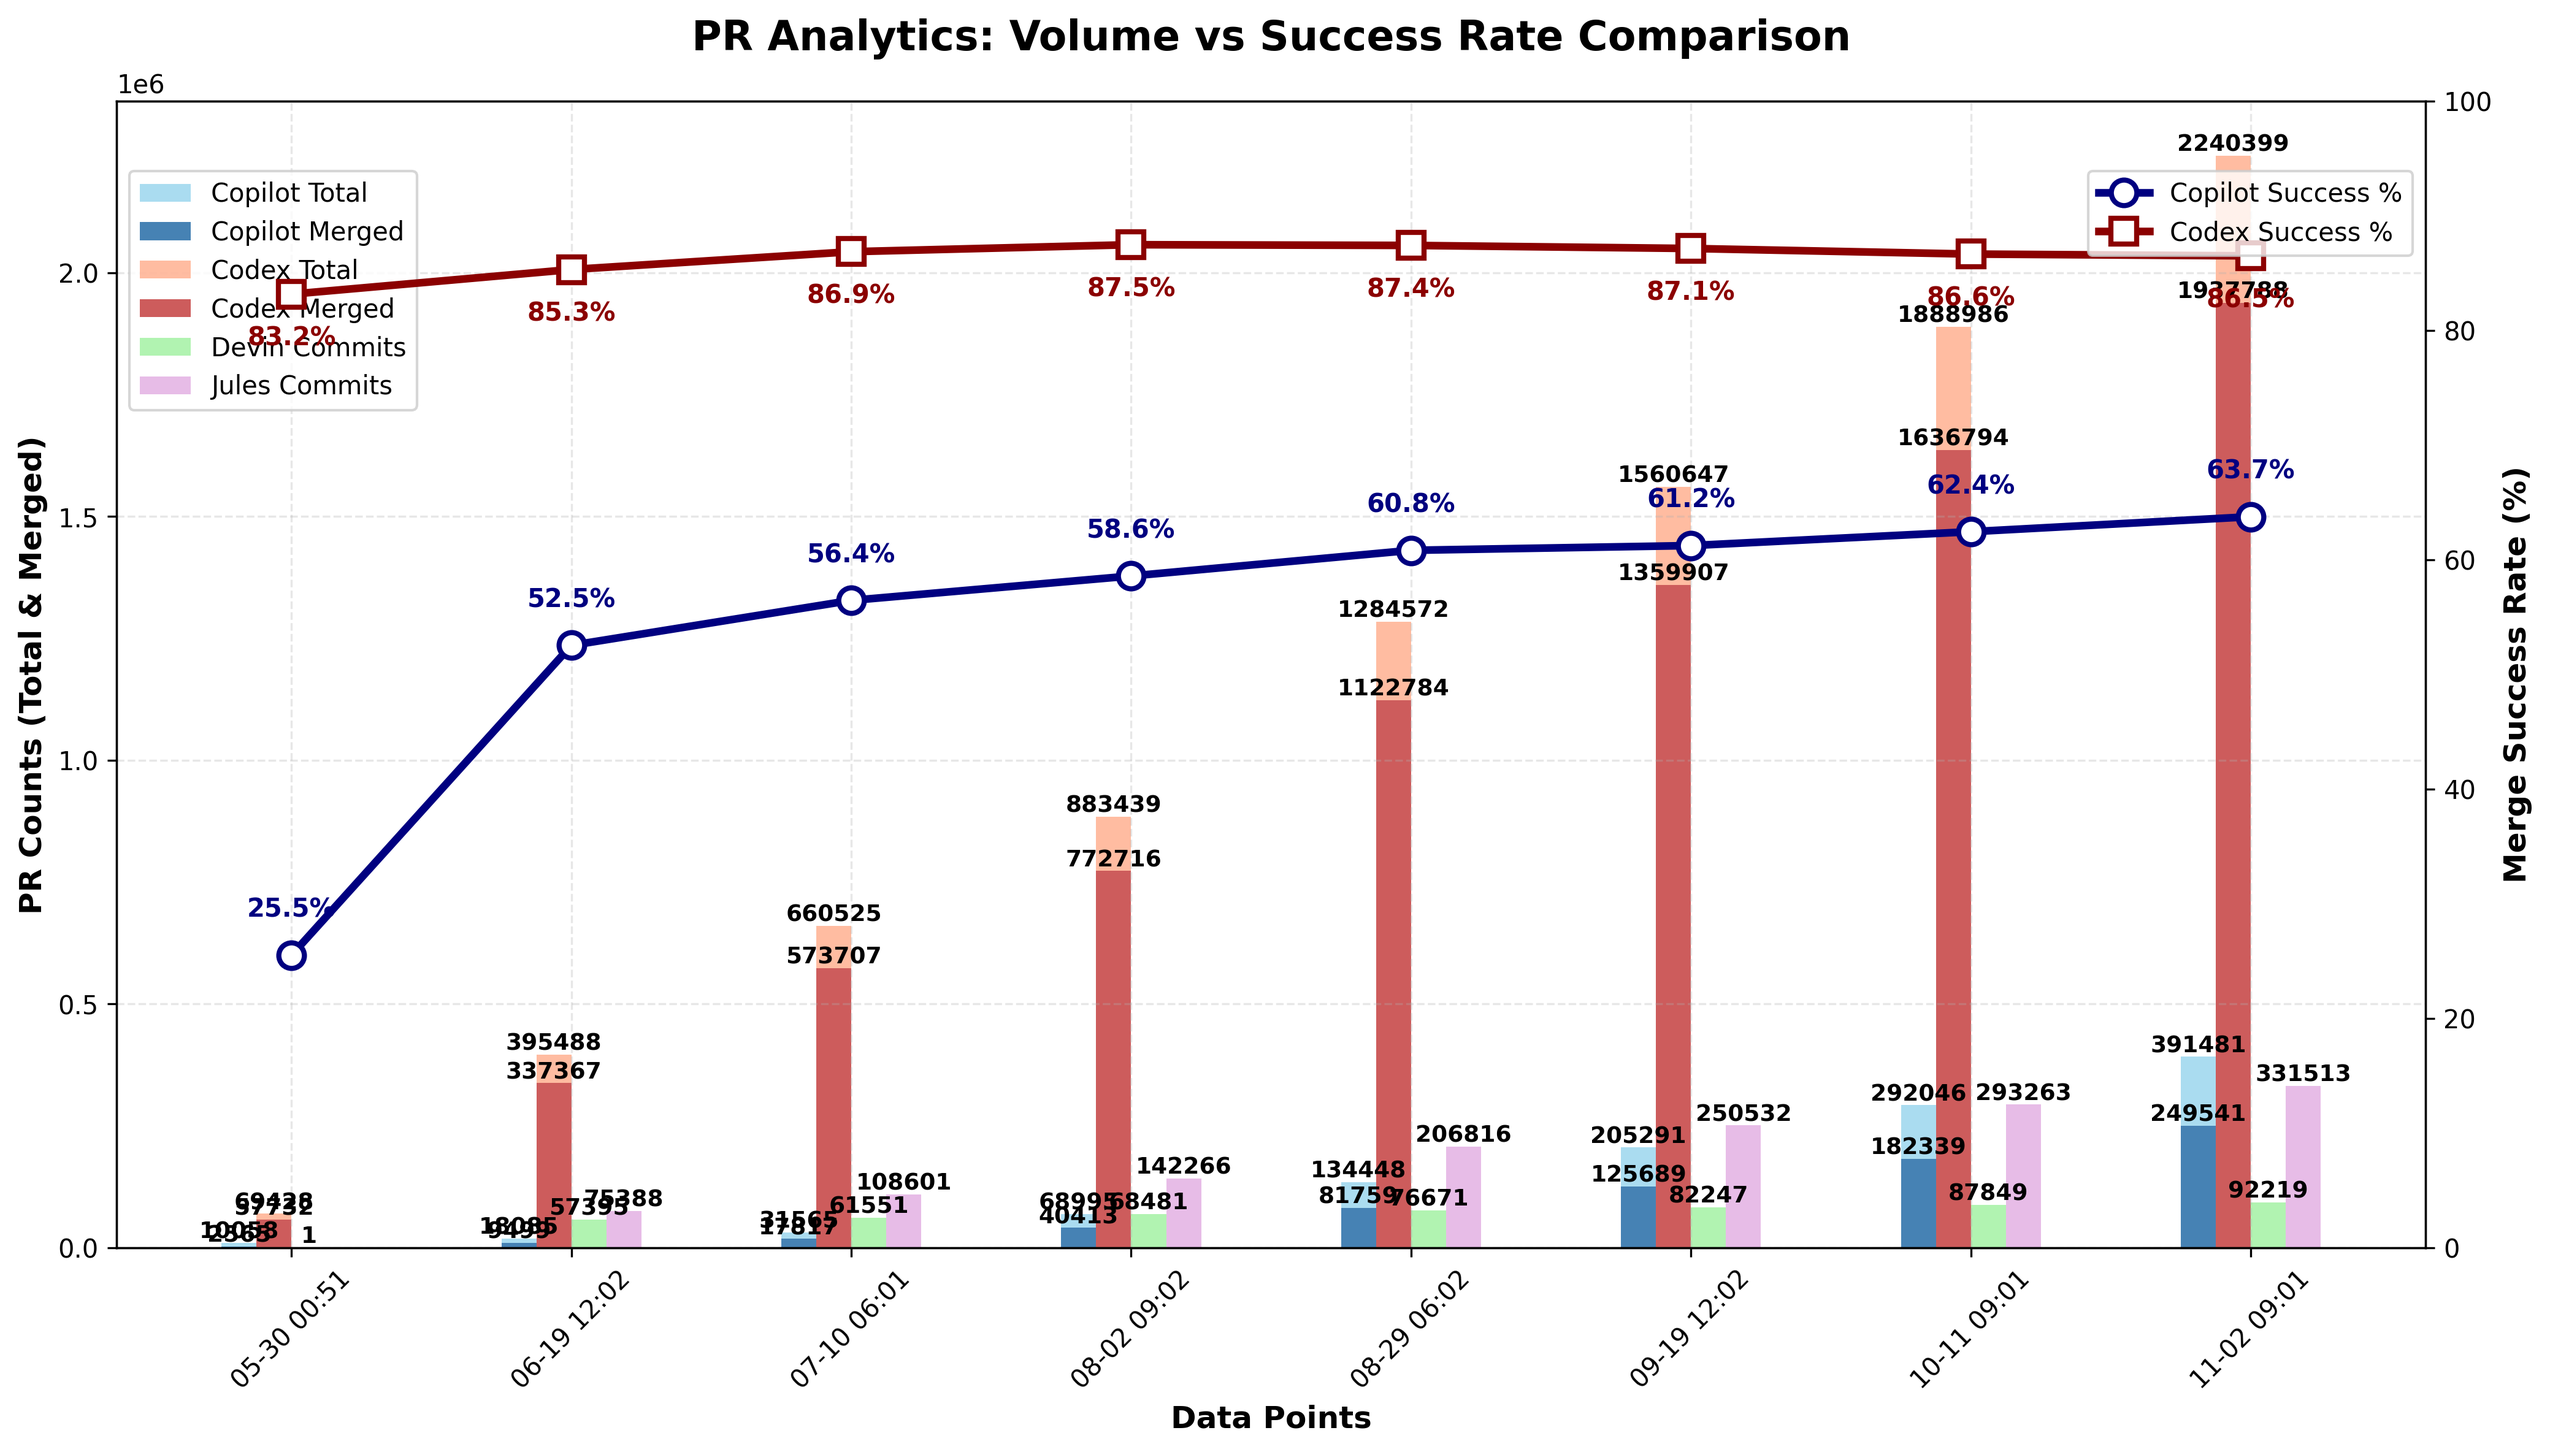
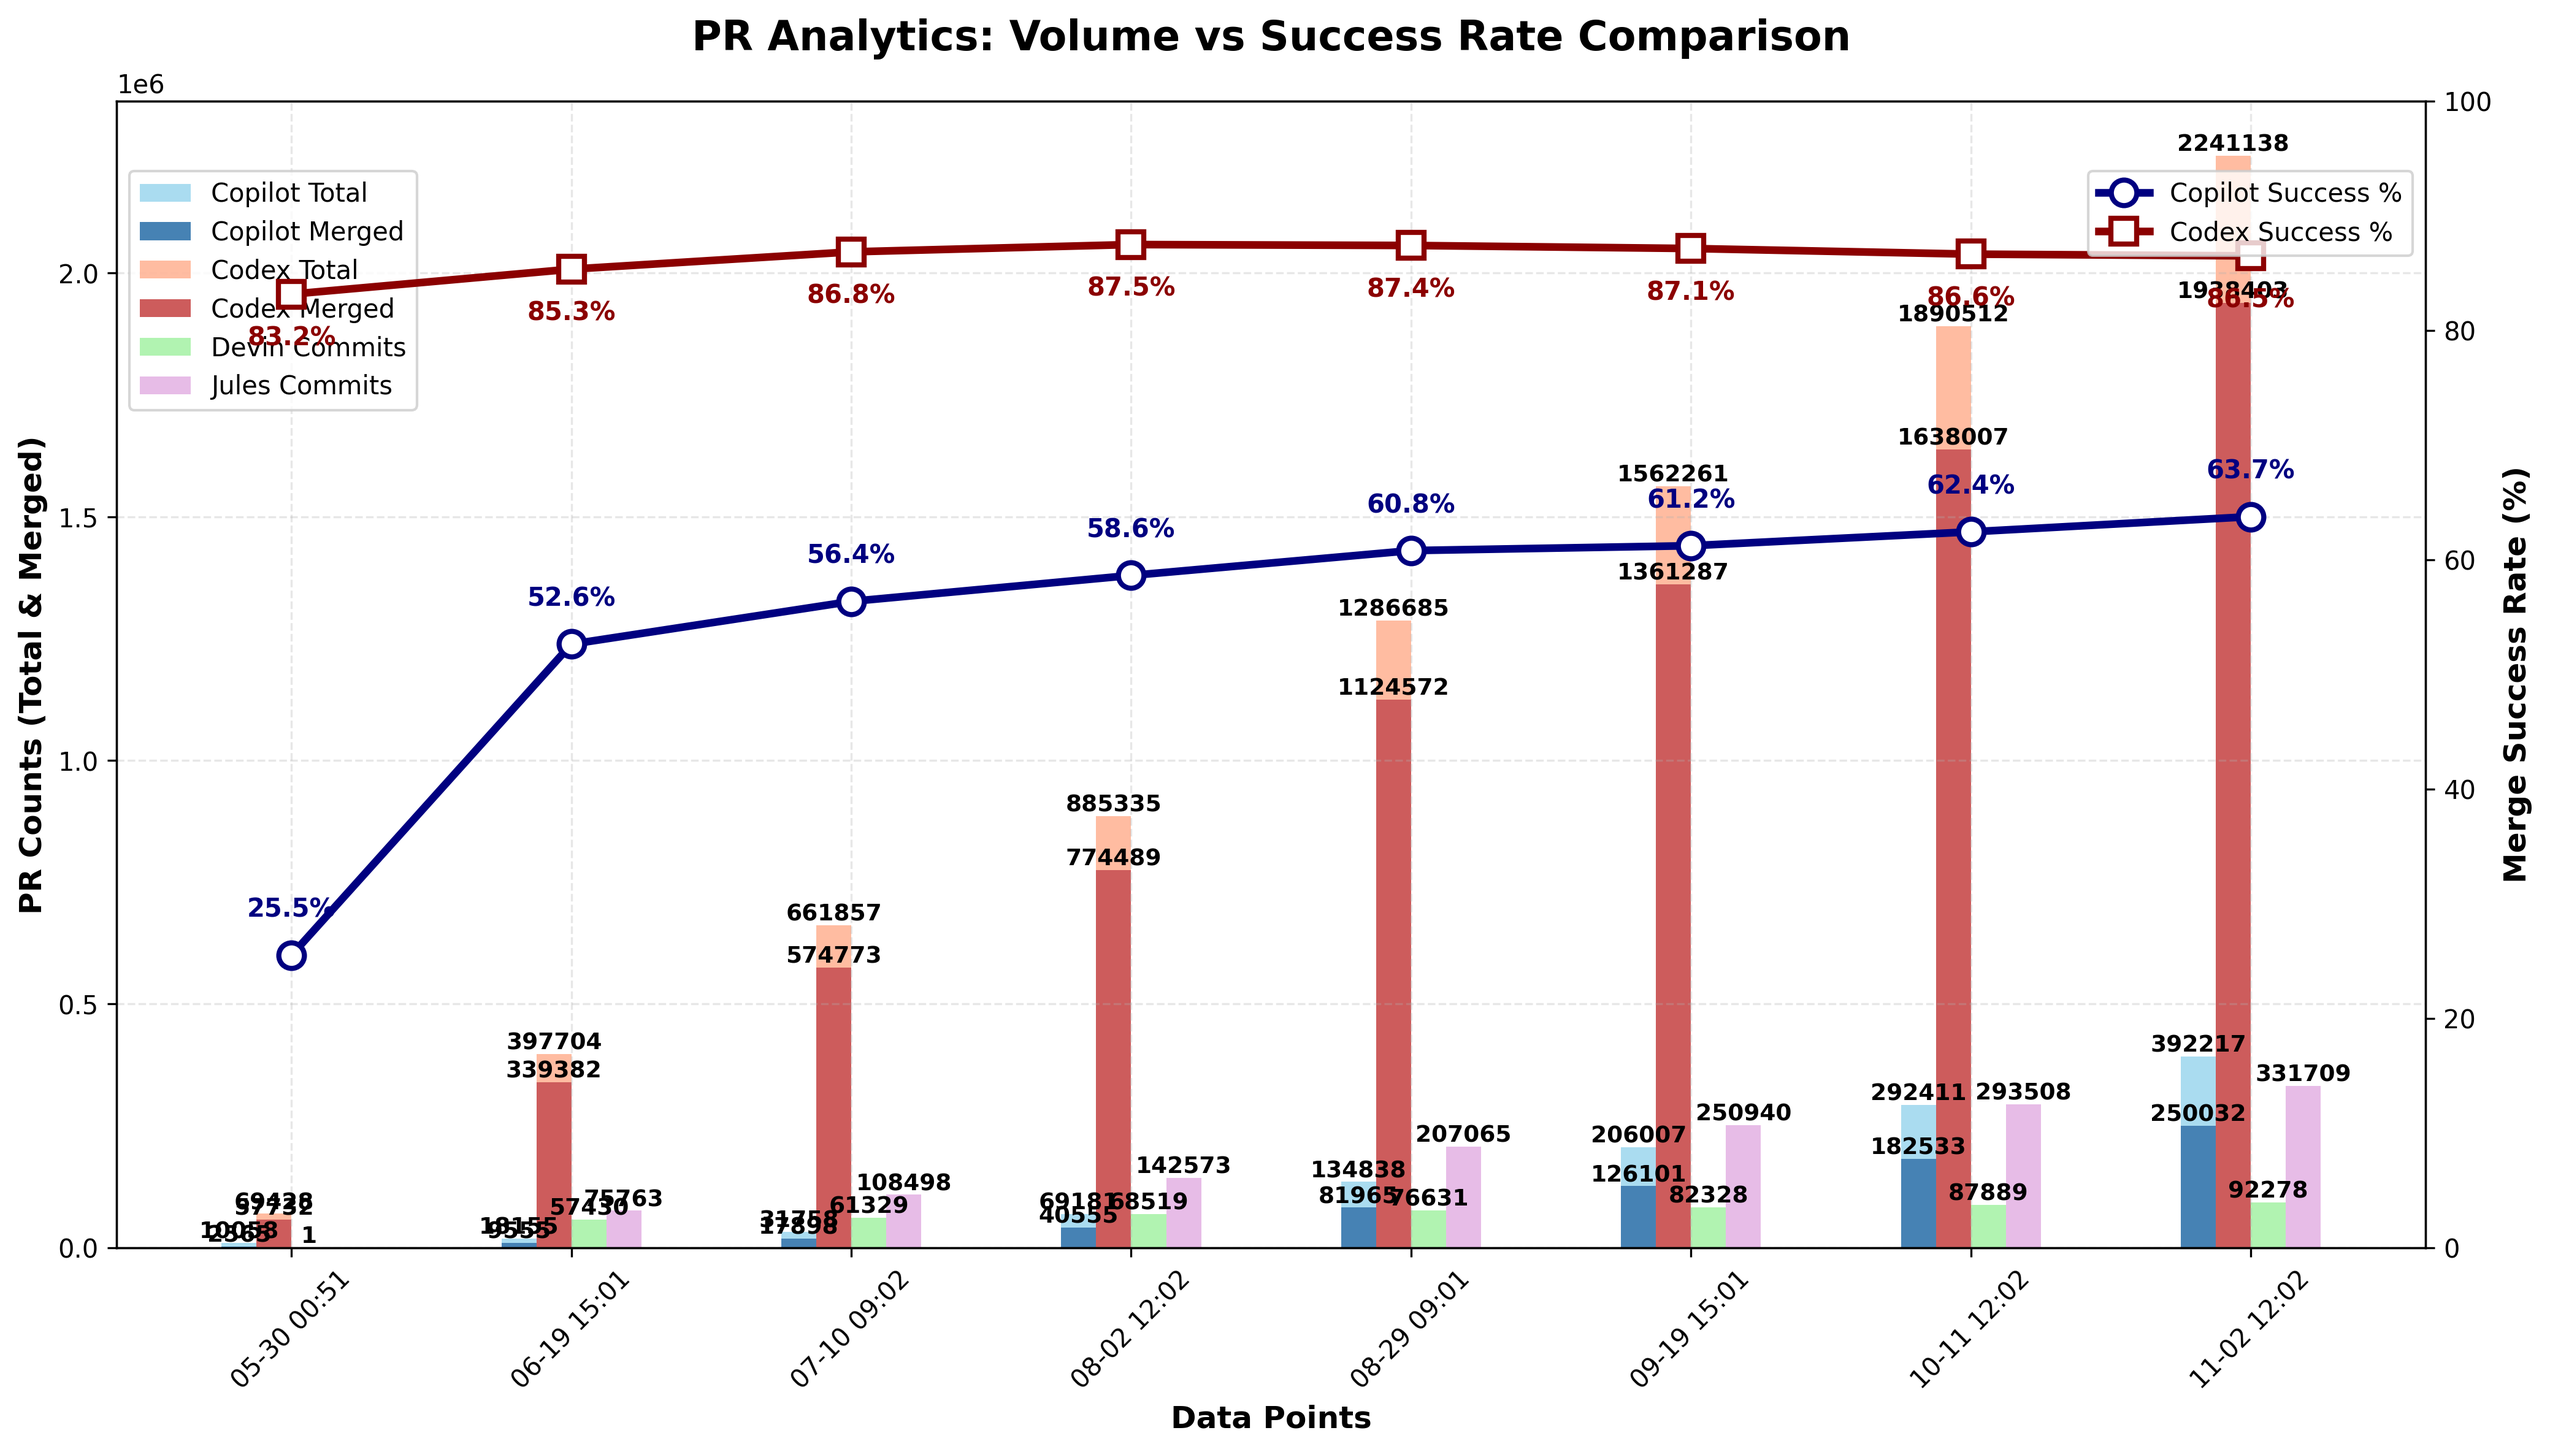
chore: update PR‑approval chart

diff --git a/docs/index.html b/docs/index.html
@@ -1202,6 +1202,7 @@
                         <td>N/A</td>
                         <td>N/A</td>
                         <td>N/A</td>
+                        <td>N/A</td>
                     </tr>
                     <tr>
                         <td>Codex</td>
@@ -2362,27 +2363,28 @@
                         <td>N/A</td>
                         <td>N/A</td>
                         <td>N/A</td>
+                        <td>N/A</td>
                     </tr>
                 <tr>
                         <td>Devin</td>
                         <td>N/A</td>
                         <td>N/A</td>
                         <td>N/A</td>
-                        <td>92,219</td>
+                        <td>92,278</td>
                     </tr>
                     <tr>
                         <td>Jules</td>
                         <td>N/A</td>
                         <td>N/A</td>
                         <td>N/A</td>
-                        <td>331,513</td>
+                        <td>331,709</td>
                     </tr>
                     </tbody>
             </table>
         </section>
 
         <footer>
-            <p>Last updated: <span id="last-updated">November 02, 2025 09:01 UTC</span></p>
+            <p>Last updated: <span id="last-updated">November 02, 2025 12:02 UTC</span></p>
             <p><a href="https://github.com/aavetis/ai-pr-watcher">View on GitHub</a></p>
         </footer>
     </div>

diff --git a/README.md b/README.md
@@ -19,7 +19,7 @@ Explore the GitHub search queries used:
 
 | Service | Total PRs | Merged PRs | Merge Rate | Total Commits |
 | ------- | --------- | ---------- | ---------- | ------------- |
-| Copilot | 391,481 | 249,541 | 63.74% | N/A           |
-| Codex   | 2,240,399 | 1,937,788 | 86.49% | N/A           |
-| Devin   | N/A       | N/A        | N/A        | 92,219 |
-| Jules   | N/A       | N/A        | N/A        | 331,513 |
+| Copilot | 392,217 | 250,032 | 63.75% | N/A           |
+| Codex   | 2,241,138 | 1,938,403 | 86.49% | N/A           |
+| Devin   | N/A       | N/A        | N/A        | 92,278 |
+| Jules   | N/A       | N/A        | N/A        | 331,709 |
